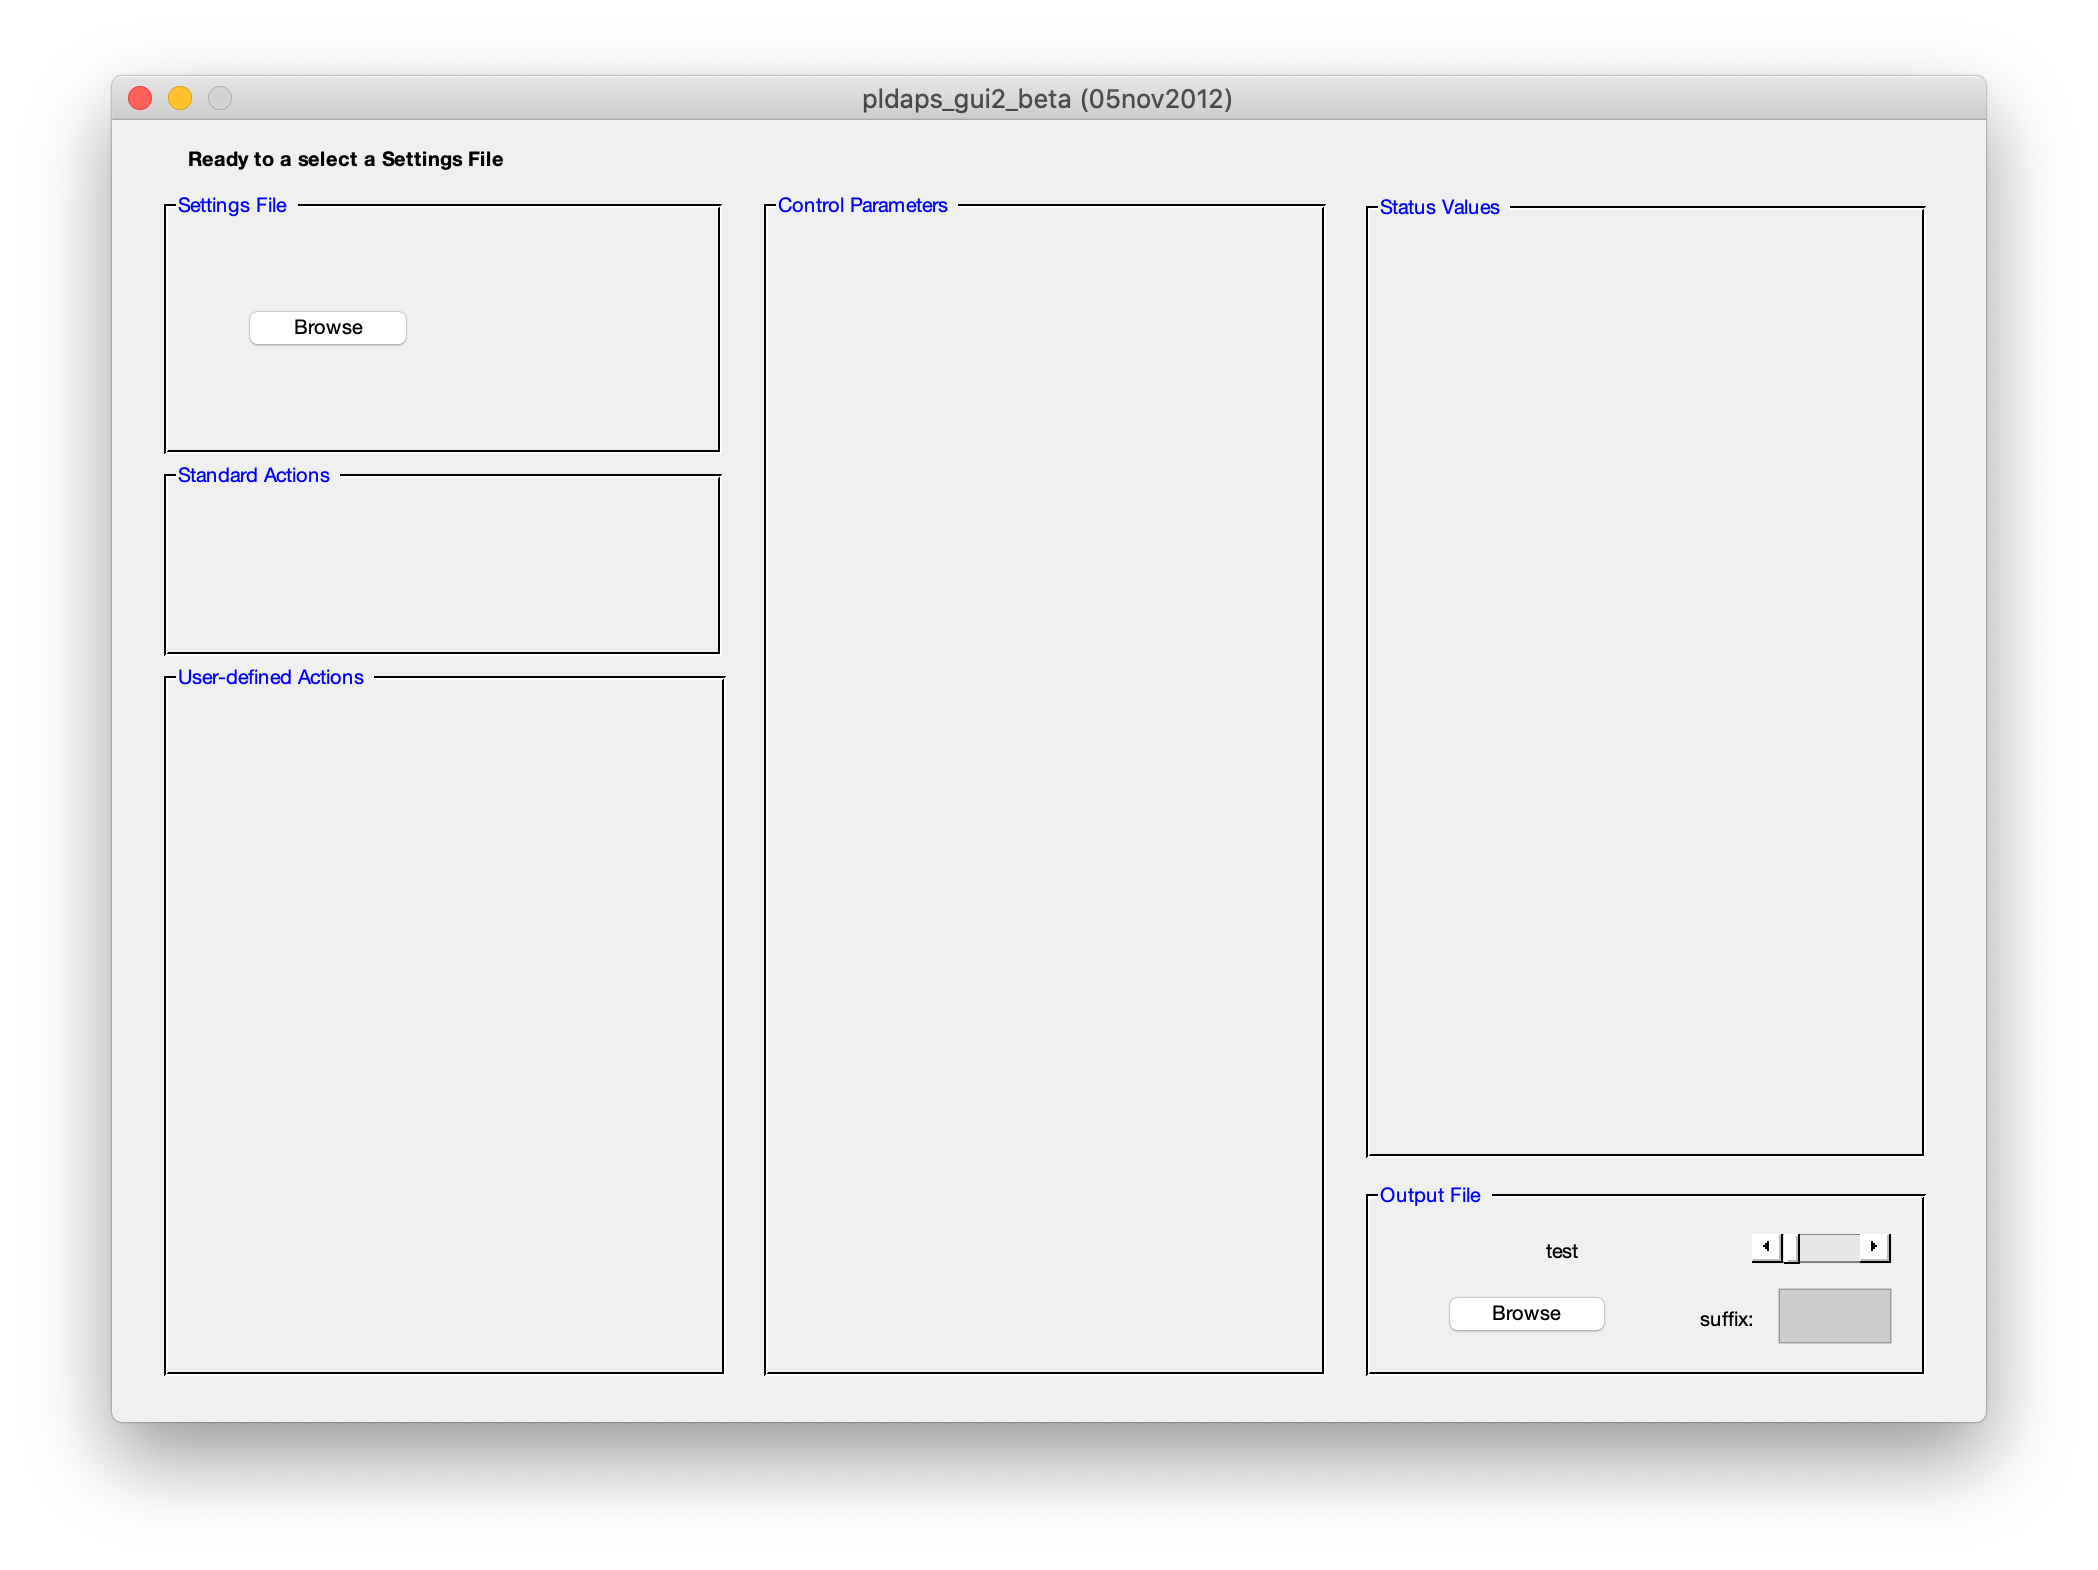
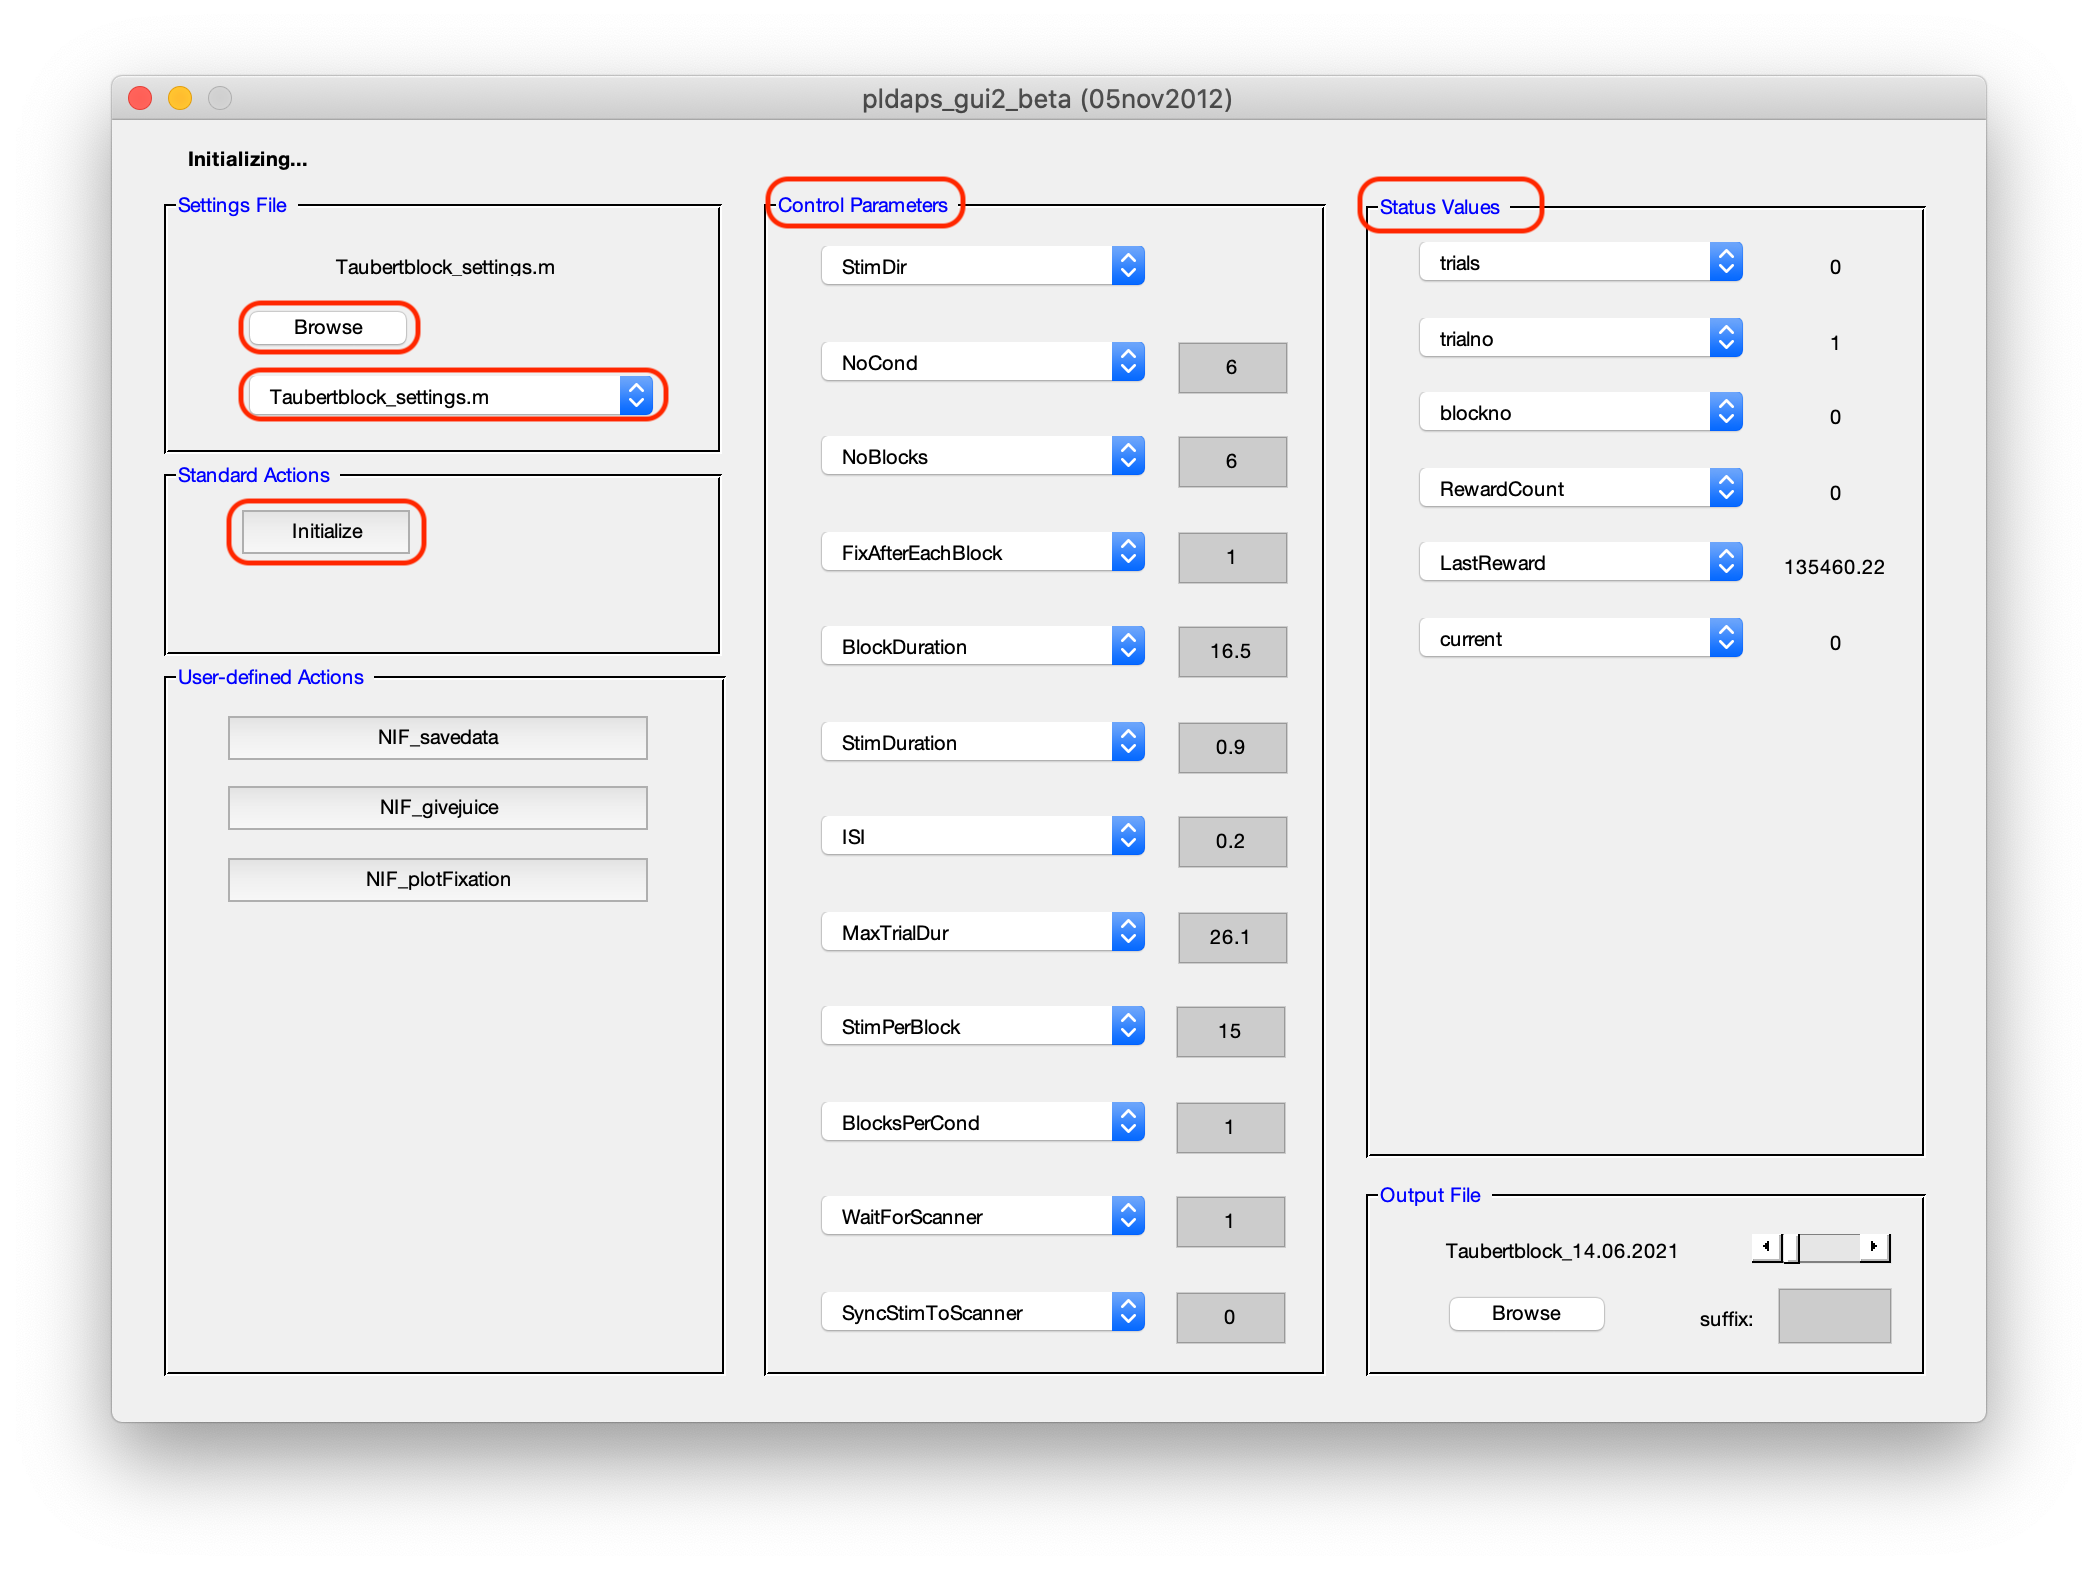
Added notes on PLDAPS

diff --git a/NTB_Docs/source/NIF_PLDAPS.rst b/NTB_Docs/source/NIF_PLDAPS.rst
@@ -4,6 +4,16 @@
 NIF PLDAPS
 ===================================
 
+.. panels::
+  :column: col-lg-12 p-0 border-1
+  :header: bg-primary text-bold p-1 pl-2
+  :body: bg-secondary border-0 p-2
+
+  :opticon:`info,mr-1` **Note**
+  ^^^^^^^^^^^^^^^^^^^^^^^^
+  NIF Toolbar is the recommended replacement for the Krauzlis lab's PLDAPS GUI when running fMRI experiments in the NIF. PLDAPS itself has also been updated substantially since this GUI was written. This page documents how to use the Krauzlis PLDAPS GUI code for reference.
+
+
 A brief history
 -----------------
 
@@ -28,11 +38,35 @@ The GUI is composed of two files: pldaps_gui2_ms.fig and pldaps_gui2_ms.m. It ca
 Settings file
 ----------------
 
+When you click the :badge:`Browse,badge-primary` button on the GUI, it will open a file browser window that by default will be in the :code:`Settings` subdirectory of the current directory (i.e. where pldaps_gui2_ms.m is executed from). The window allows you to select a Matlab script (.m file) that should have the necessary experiment parameters hard-coded inside it. Parameters specified in this file will be loaded into the GUI and can be modified there. 
 
+Parameters should be stored in 3 structures, organized as follows:
+
+- :badge:`m,badge-primary`: m-file references
+- :badge:`c,badge-primary`: most variables
+- :badge:`s,badge-primary`: status values
 
 
 Experiment files
 ------------------
+
+After loading the settings file, an :badge:`Initialize,badge-primary` button will appear on the GUI. Pressing this button will run the corresponding initialization function for the selected experiment, which should be named in the format :code:`*_init.m` (where * is replaced with a unique string indicating the experiment). The GUI expects each experiment to be composed of four separate .m files with a specific naming convention as follows:
+
+1. **ExpName_init.m** - this function should initialize all aspects of the experiment, including opening the DataPixx connection, opening a PsychToolbox window, calculating on-screen rectangles for drawing textures to, and optionally even pre-loading images into offscreen textures.
+
+2. **ExpName_run.m** - this function is executed when the :badge:`Run,badge-primary` button on the GUI is pressed. It should contain all code for running the actual experiment, including checking for experimenter keyboard input, the subject's current eye position, drawing image textures to screen, and saving any data to file.
+
+3. **ExpName_next.m** - this function is executed when the previous *_run.m function ends. It is typically left blank.
+
+4. **ExpName_finish.m** - this function is executed after the *_run.m function has executed the number of times specified in the status (:badge:`badge-primary`) structure.
+
+
+Block Design Example
+----------------------
+
+
+
+
 
 
 

diff --git a/NTB_Docs/source/Hardware_DatapixxInterface.rst b/NTB_Docs/source/Hardware_DatapixxInterface.rst
@@ -20,7 +20,7 @@ another:
 
 -  `VPixx DataPixx2 box <https://vpixx.com/products/datapixx2/>`_ (3 x DB25 connectors)
 -  `SR Research EyeLink II <https://www.sr-research.com/eyelink-ii/>`_ (1 x 68-pin D-sub)
--  `Arrington Research ViewPoint <>`_ 
+-  `Arrington Research ViewPoint <http://www.arringtonresearch.com/viewpoint.html>`_ 
 -  `TDT RZ2 bioamp <https://www.tdt.com/component/rz2-bioamp-processor/>`_ (2 x DB25 connectors)
 -  `Open Ephys board <https://open-ephys.org/acq-board>`_ (4 x HDMI connectors)
 
